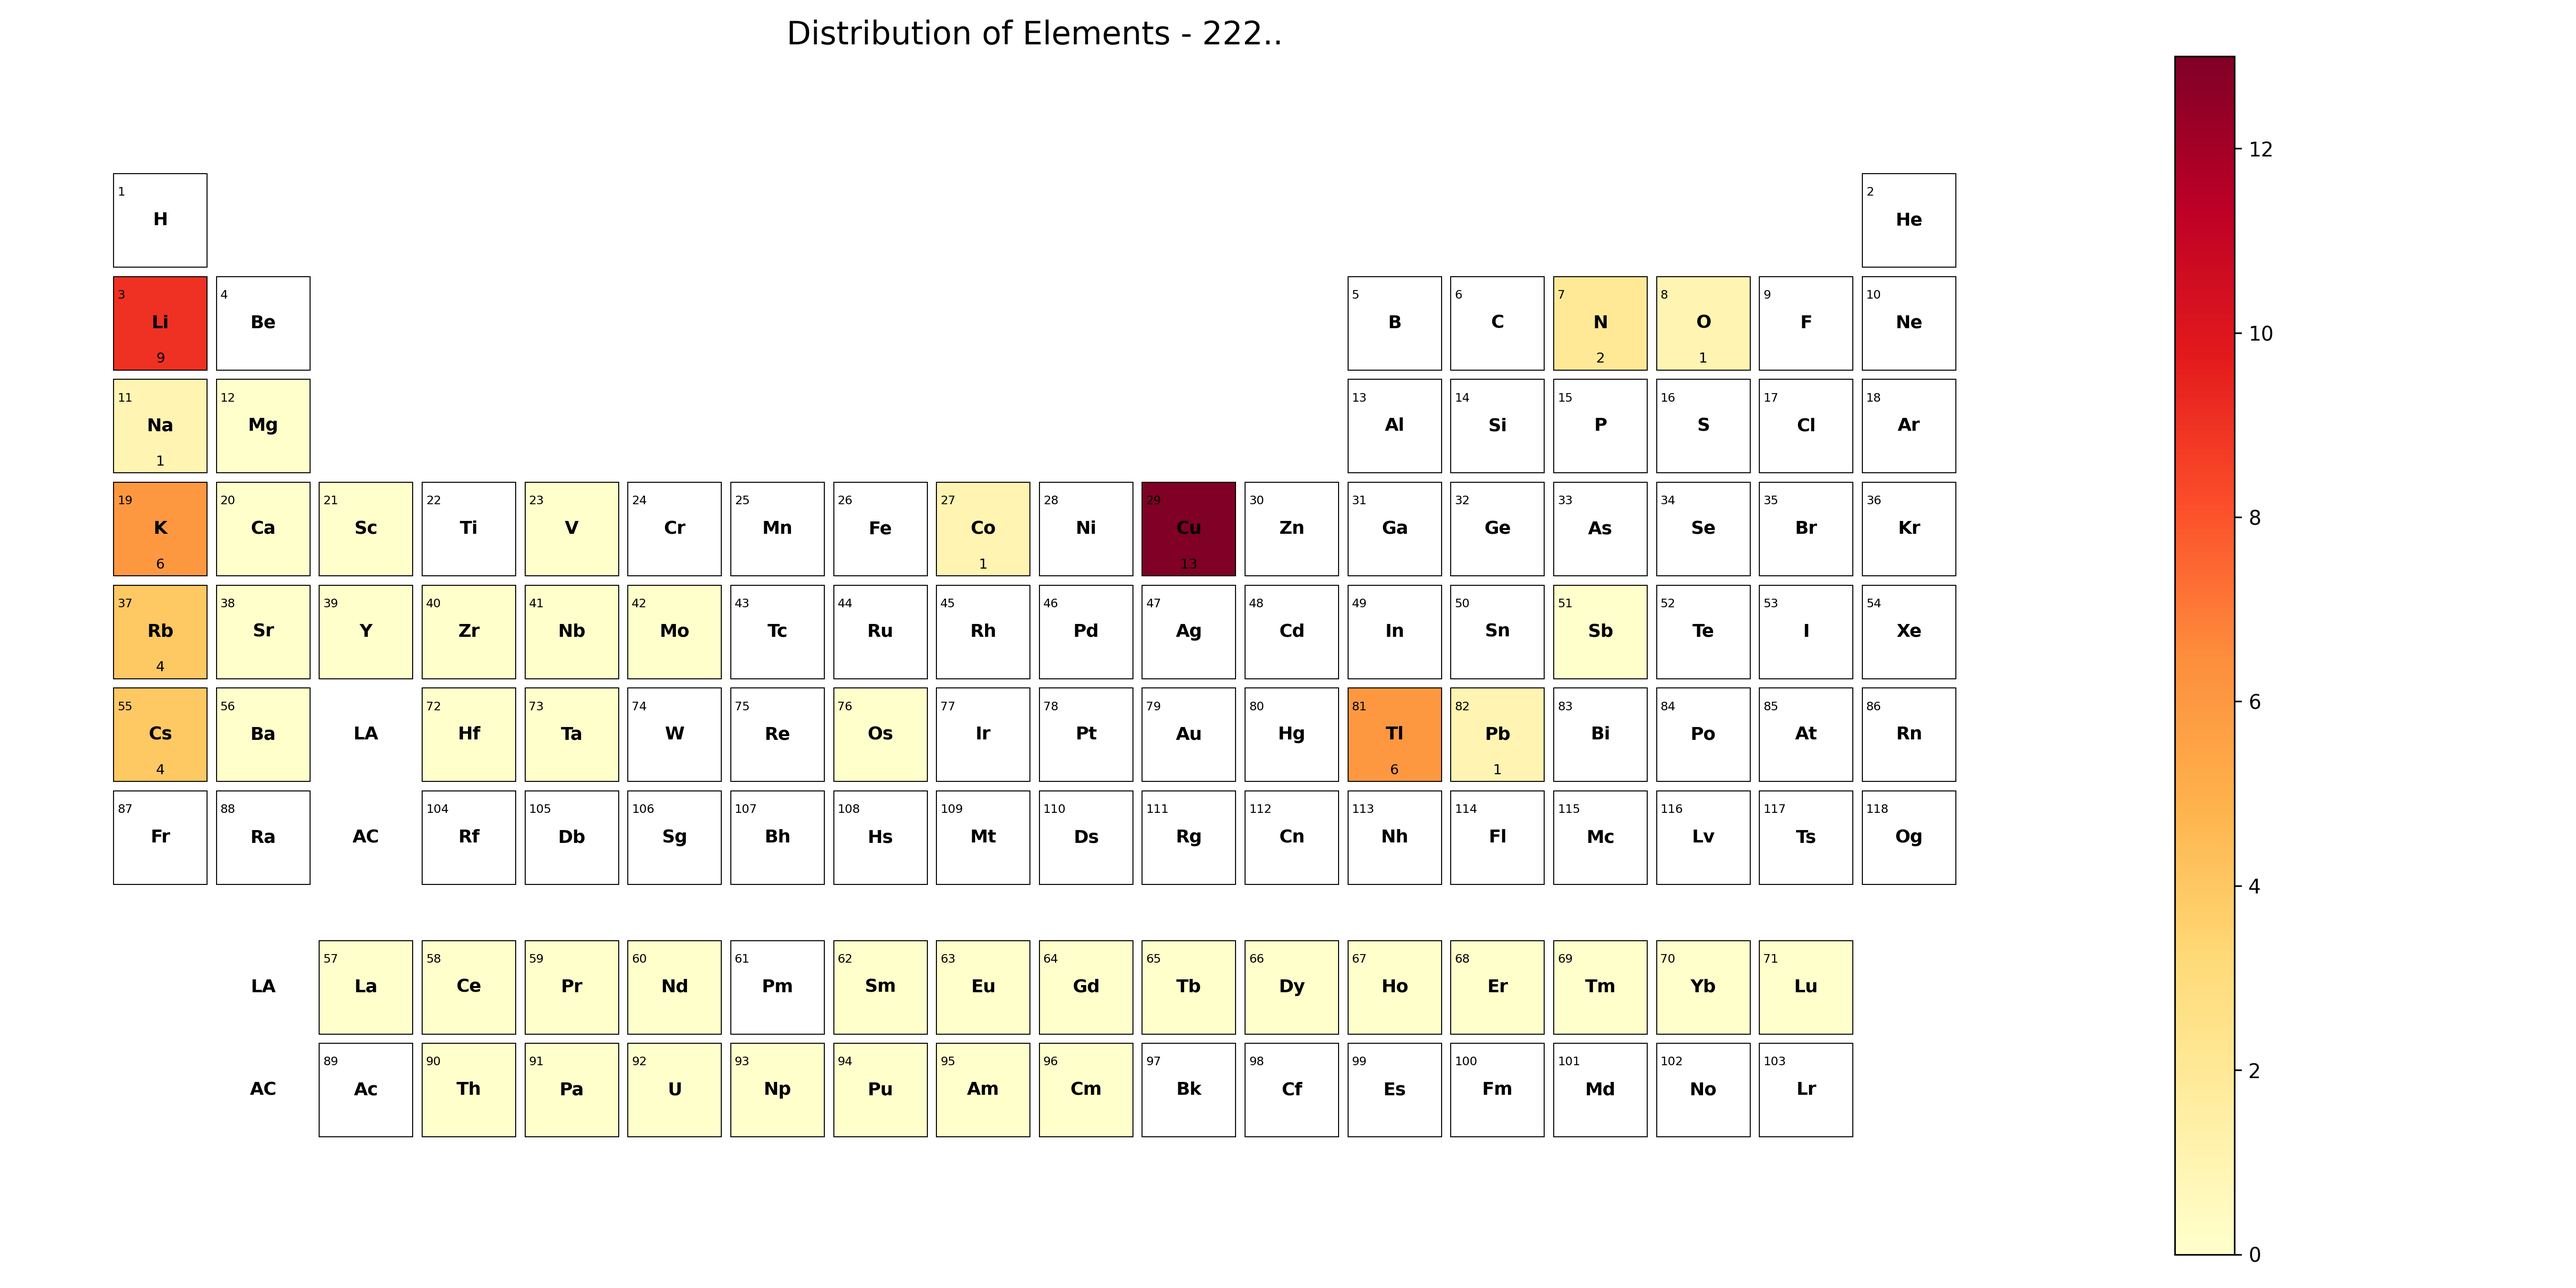
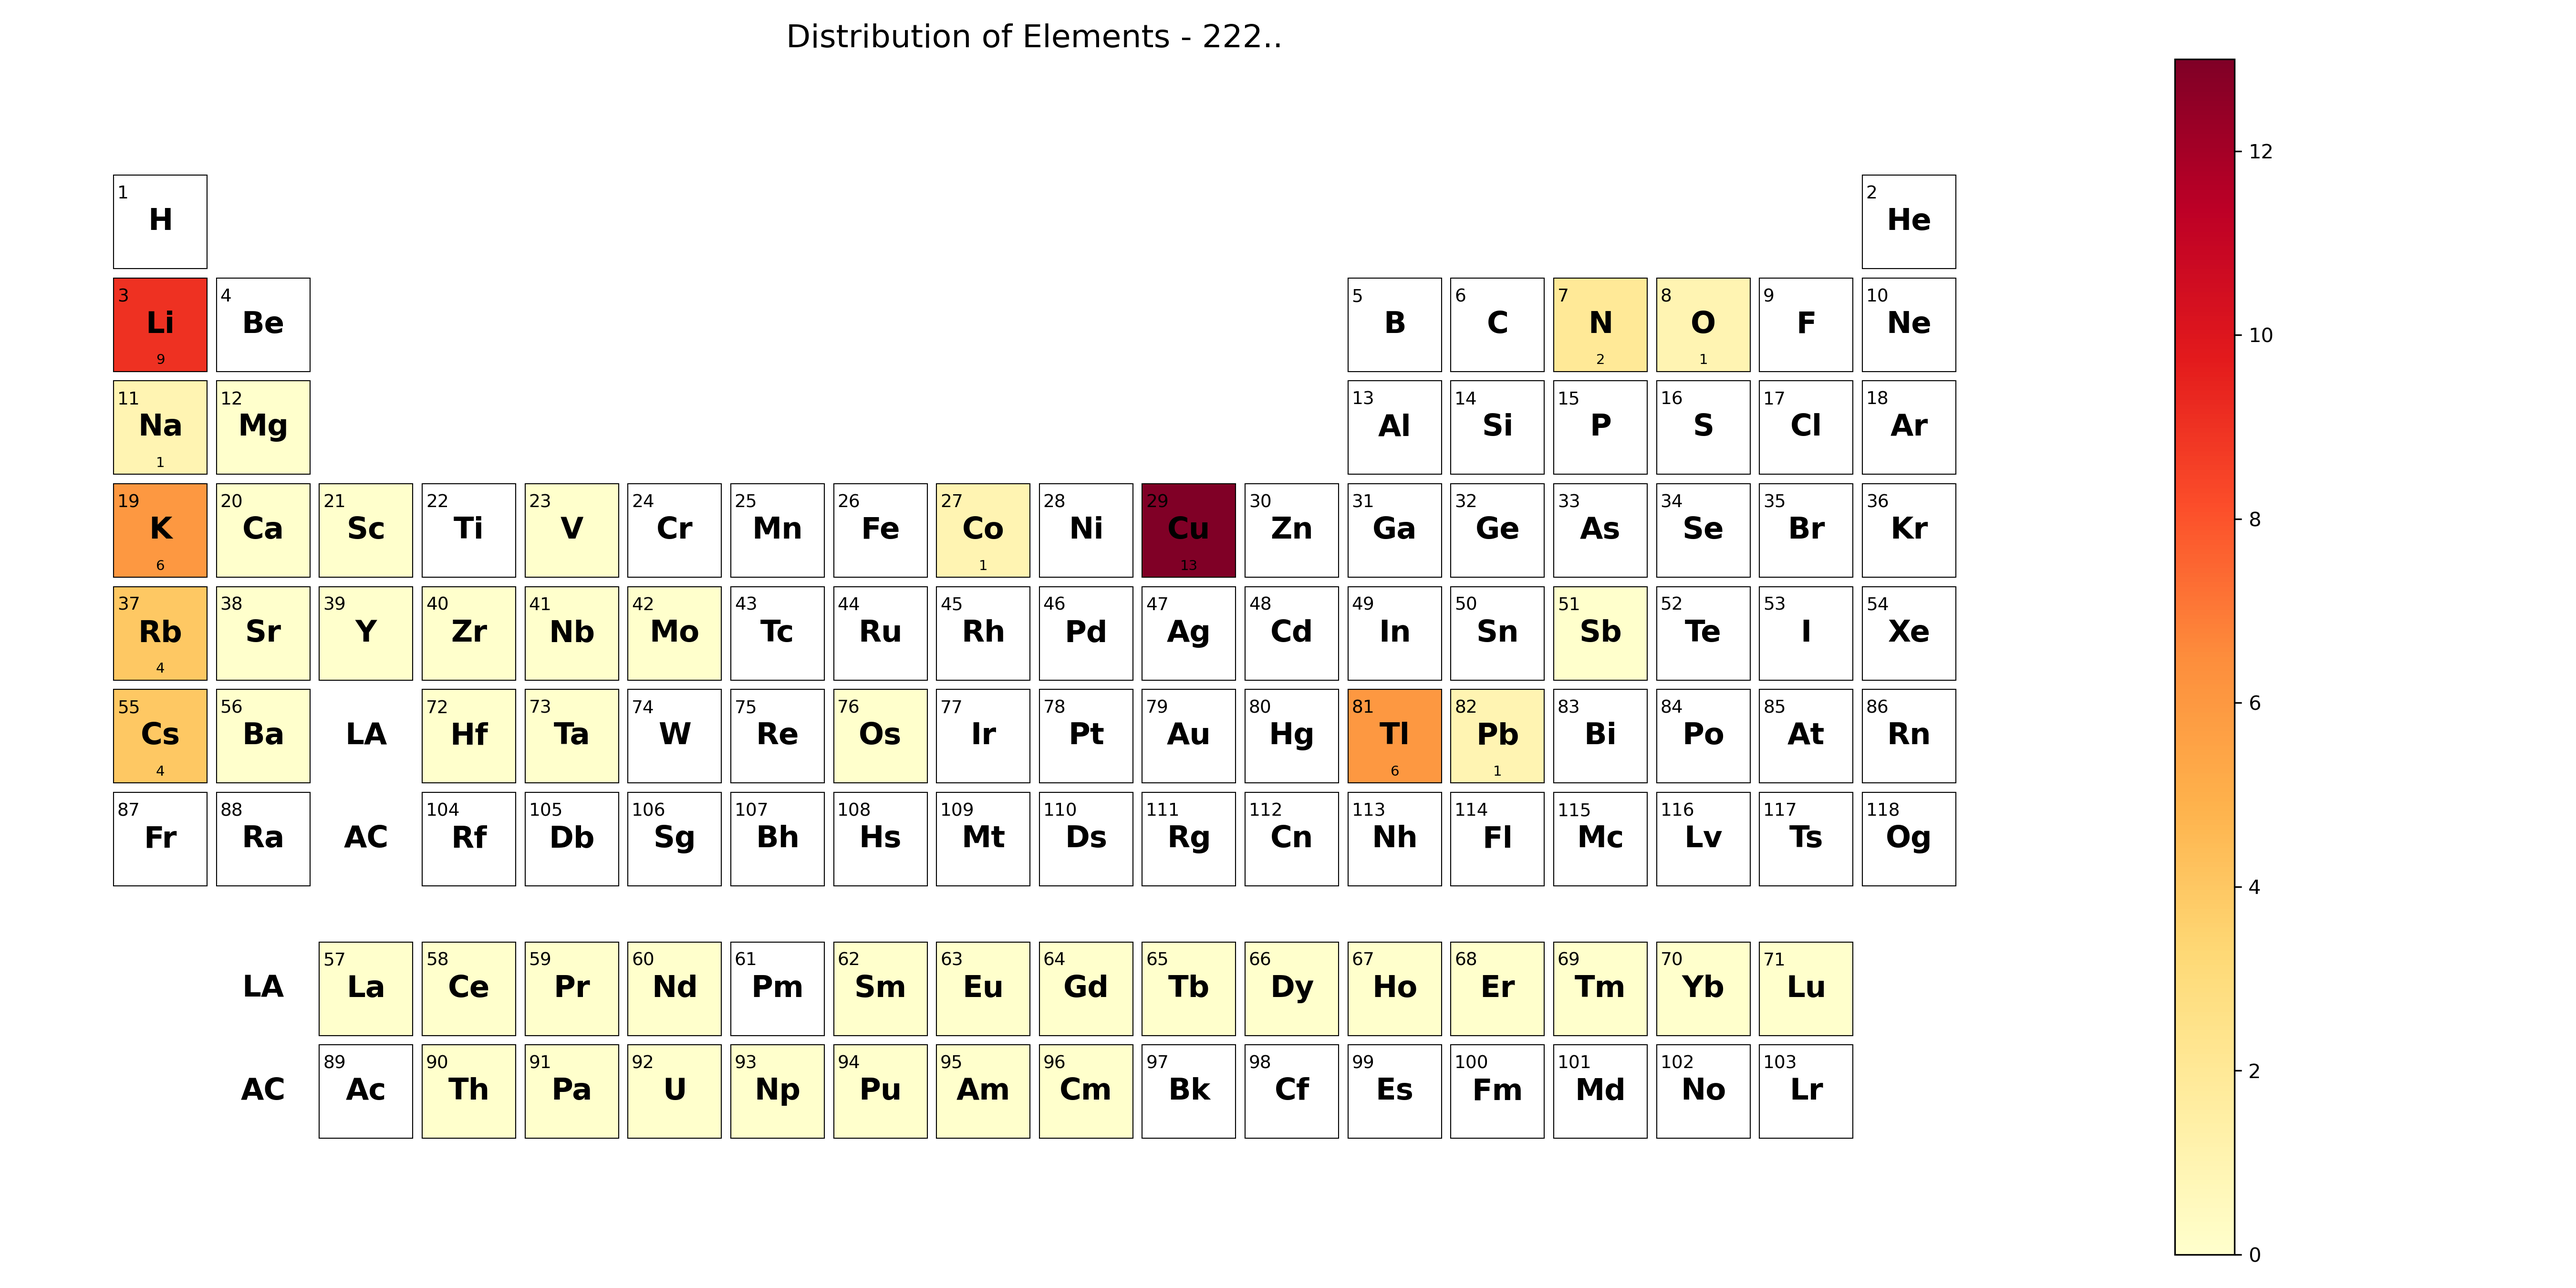
Increase font sizes for atomic number and element symbol in periodic table visualization

diff --git a/periodic_table_mapper/periodic_table_mapper.py b/periodic_table_mapper/periodic_table_mapper.py
@@ -206,11 +206,11 @@ class PeriodicTableMapper:
             # Atomic number
             ax.text(x + 0.04, y + 0.8, str(z) if z is not None else '',
                     ha='left', va='center',
-                    fontsize=6, family='Helvetica')
+                    fontsize=9, family='Helvetica')
             # Element symbol
             ax.text(x + 0.5, y + 0.5, symbol,
                     ha='center', va='center',
-                    fontsize=9, weight='bold', family='Helvetica')
+                    fontsize=15, weight='bold', family='Helvetica')
 
             # Value display
             if val is not None and not np.isnan(val) and val > 0:
